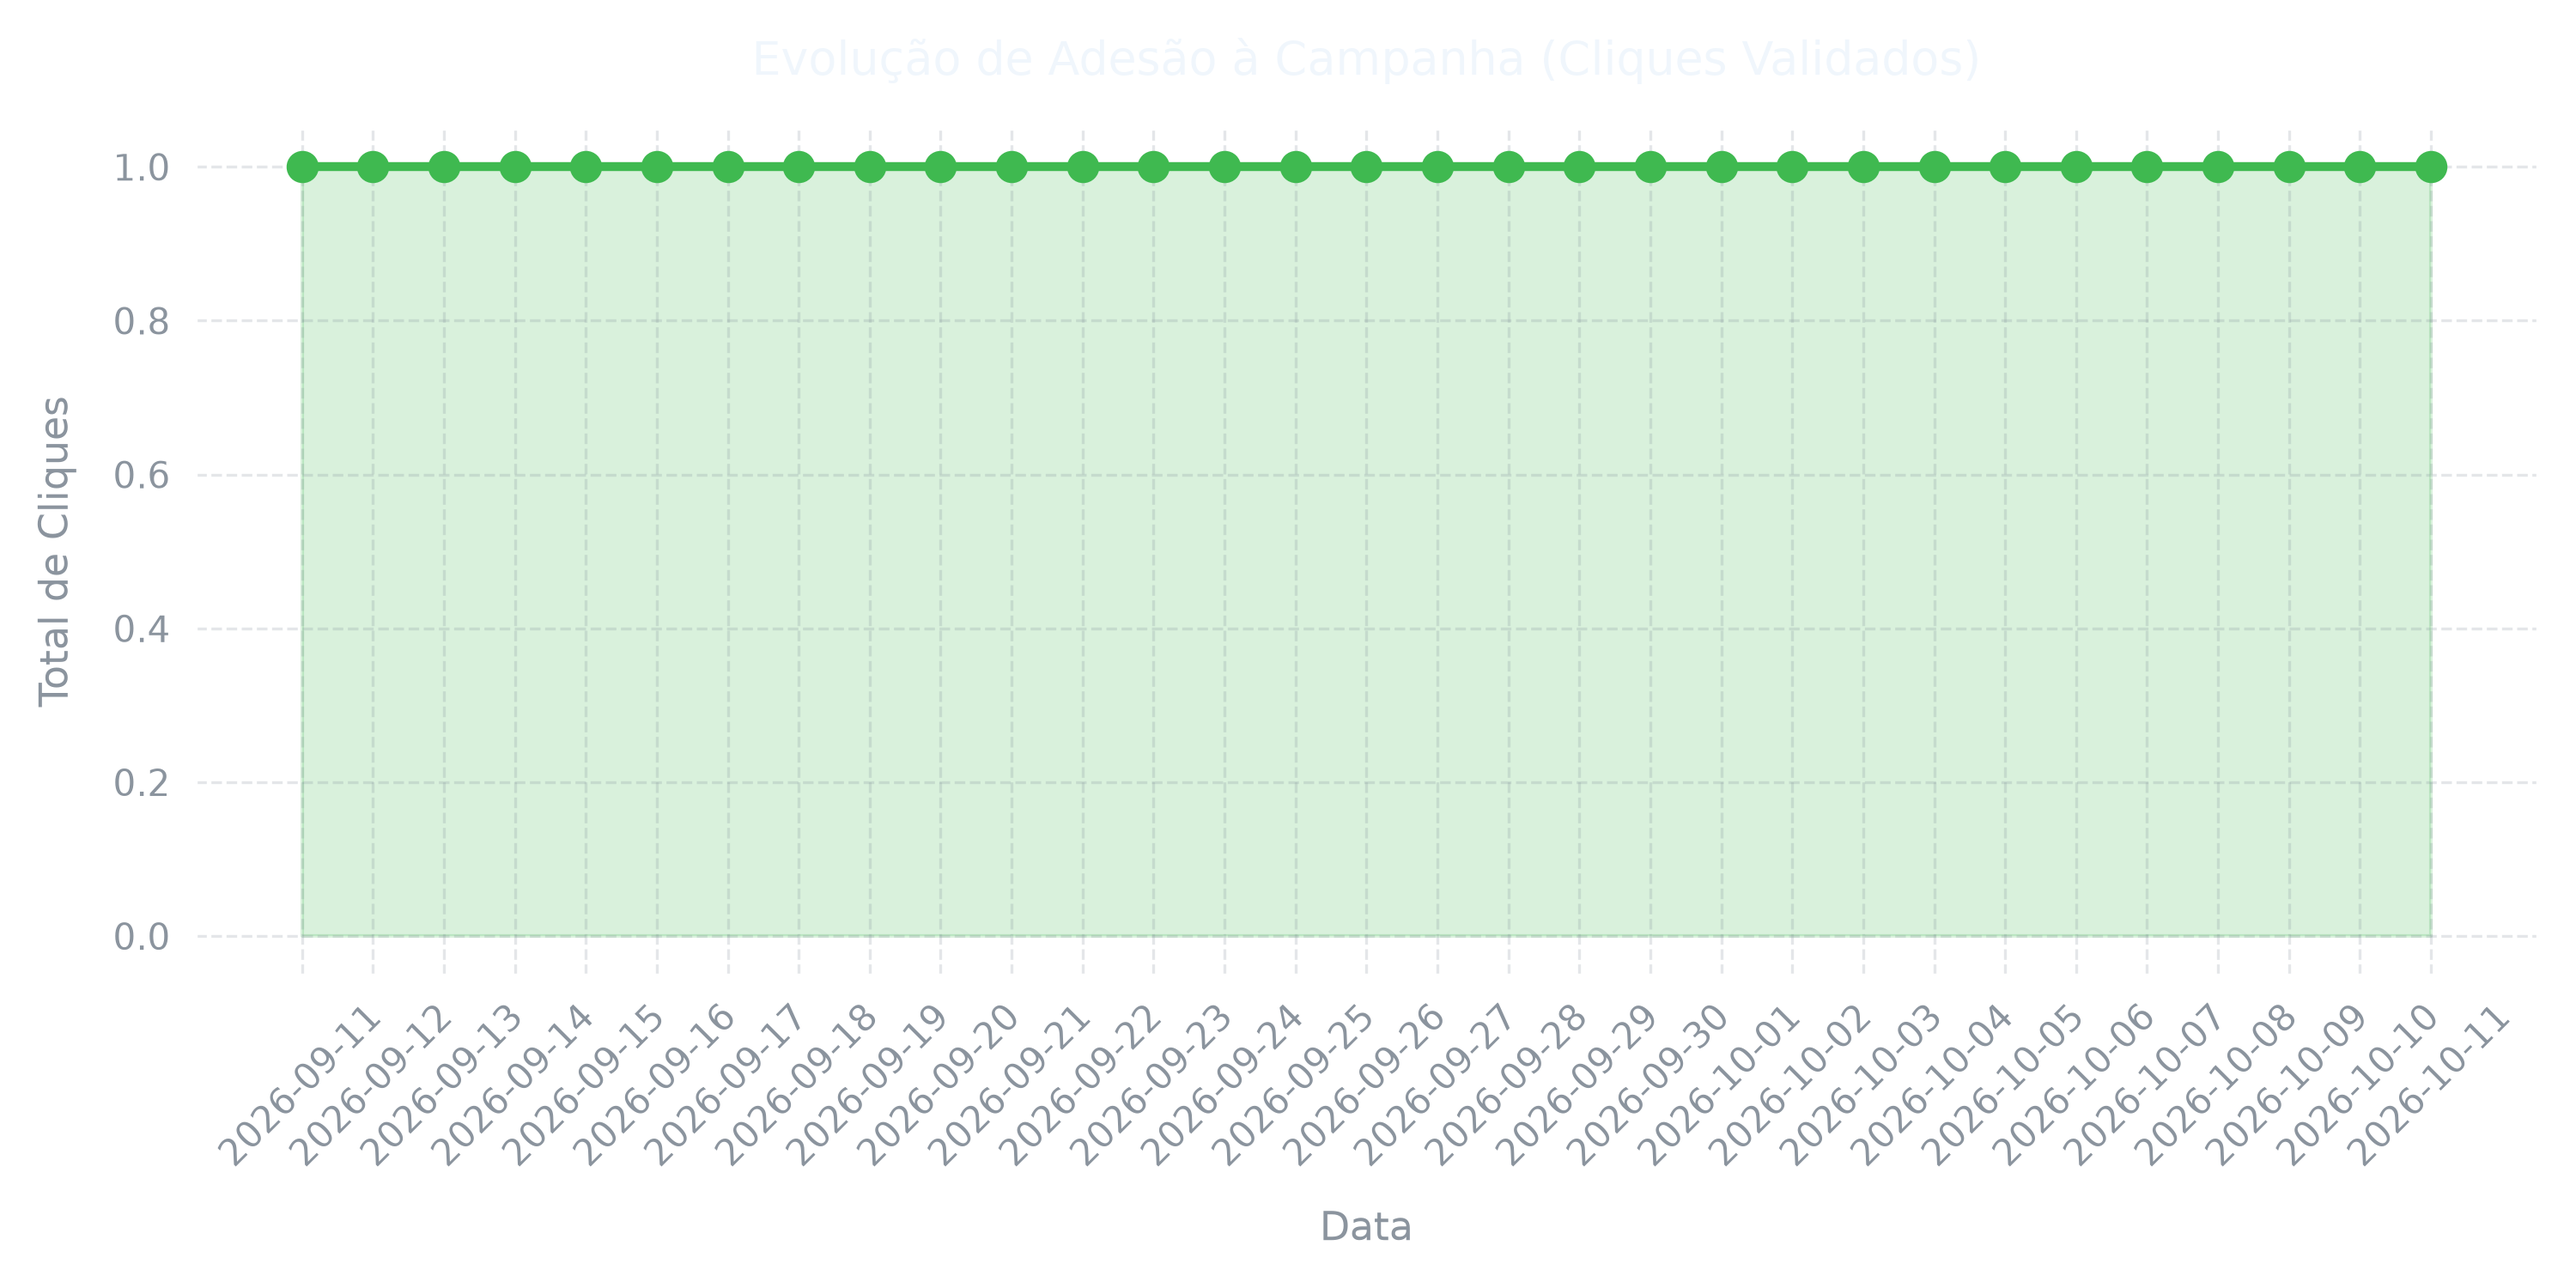
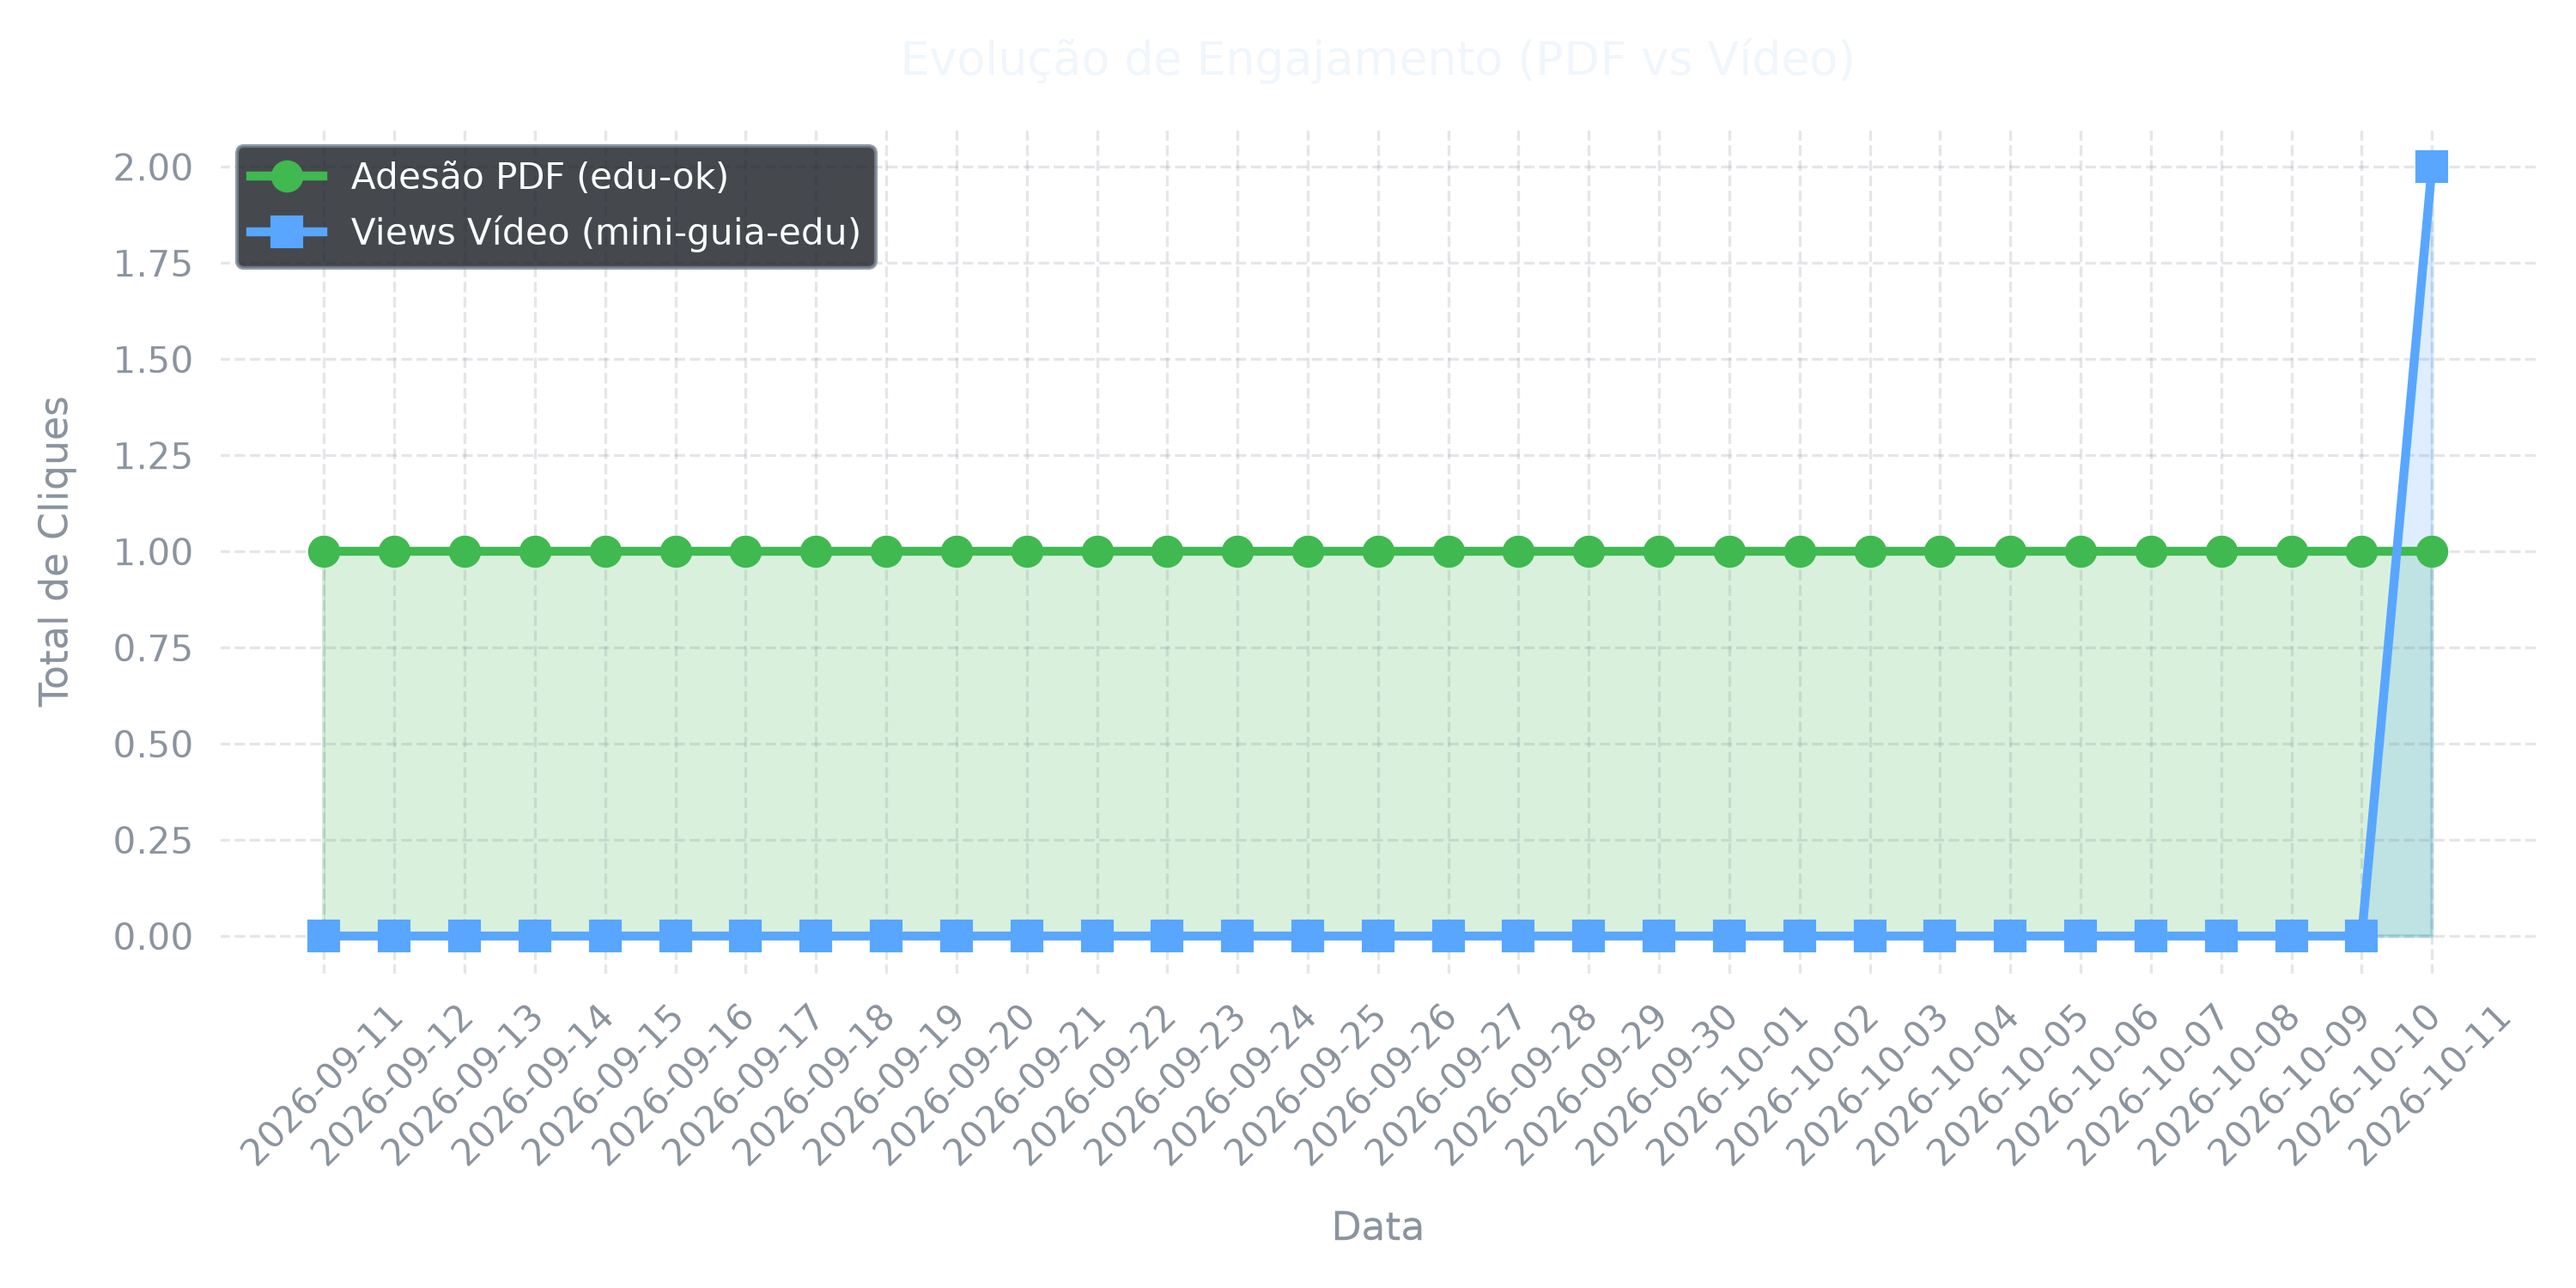
chore(telemetry): atualiza metricas e grafico comparativo [skip ci]

diff --git a/README.md b/README.md
@@ -49,9 +49,9 @@ O avanço tecnológico desregulado gerou gargalos críticos abordados por este p
 ---
 
 > 📊 Telemetria de Impacto
-> - 📄 **Adesões via PDF:** <!-- CLICKS_PDF_START -->**0**<!-- CLICKS_PDF_END --> confirmações.
-> - 📺 **Visualizações do Vídeo:** <!-- CLICKS_VIDEO_START -->**0**<!-- CLICKS_VIDEO_END --> acessos.
-> - 🕒 *Última sincronização:* <!-- DATE_START -->(Atualizado em 11/10/2026)<!-- DATE_END -->
+> - 📄 **Adesões via PDF:** <!-- CLICKS_PDF_START -->**1**<!-- CLICKS_PDF_END --> confirmações.
+> - 📺 **Visualizações do Vídeo:** <!-- CLICKS_VIDEO_START -->**2**<!-- CLICKS_VIDEO_END --> acessos.
+> - 🕒 *Última sincronização:* <!-- DATE_START -->(Atualizado em 11/10/2026 às 12:59)<!-- DATE_END -->
 
 ## 📈 Histórico de Conversão e Impacto
 Os dados abaixo são atualizados de forma totalmente automatizada via pipeline de CI/CD (**GitHub Actions + Python + Cutt.ly Regular API**). A telemetria monitora o alcance do material educativo coletando apenas métricas agregadas de alcance e conversão, sem expor dados pessoais dos usuários.
